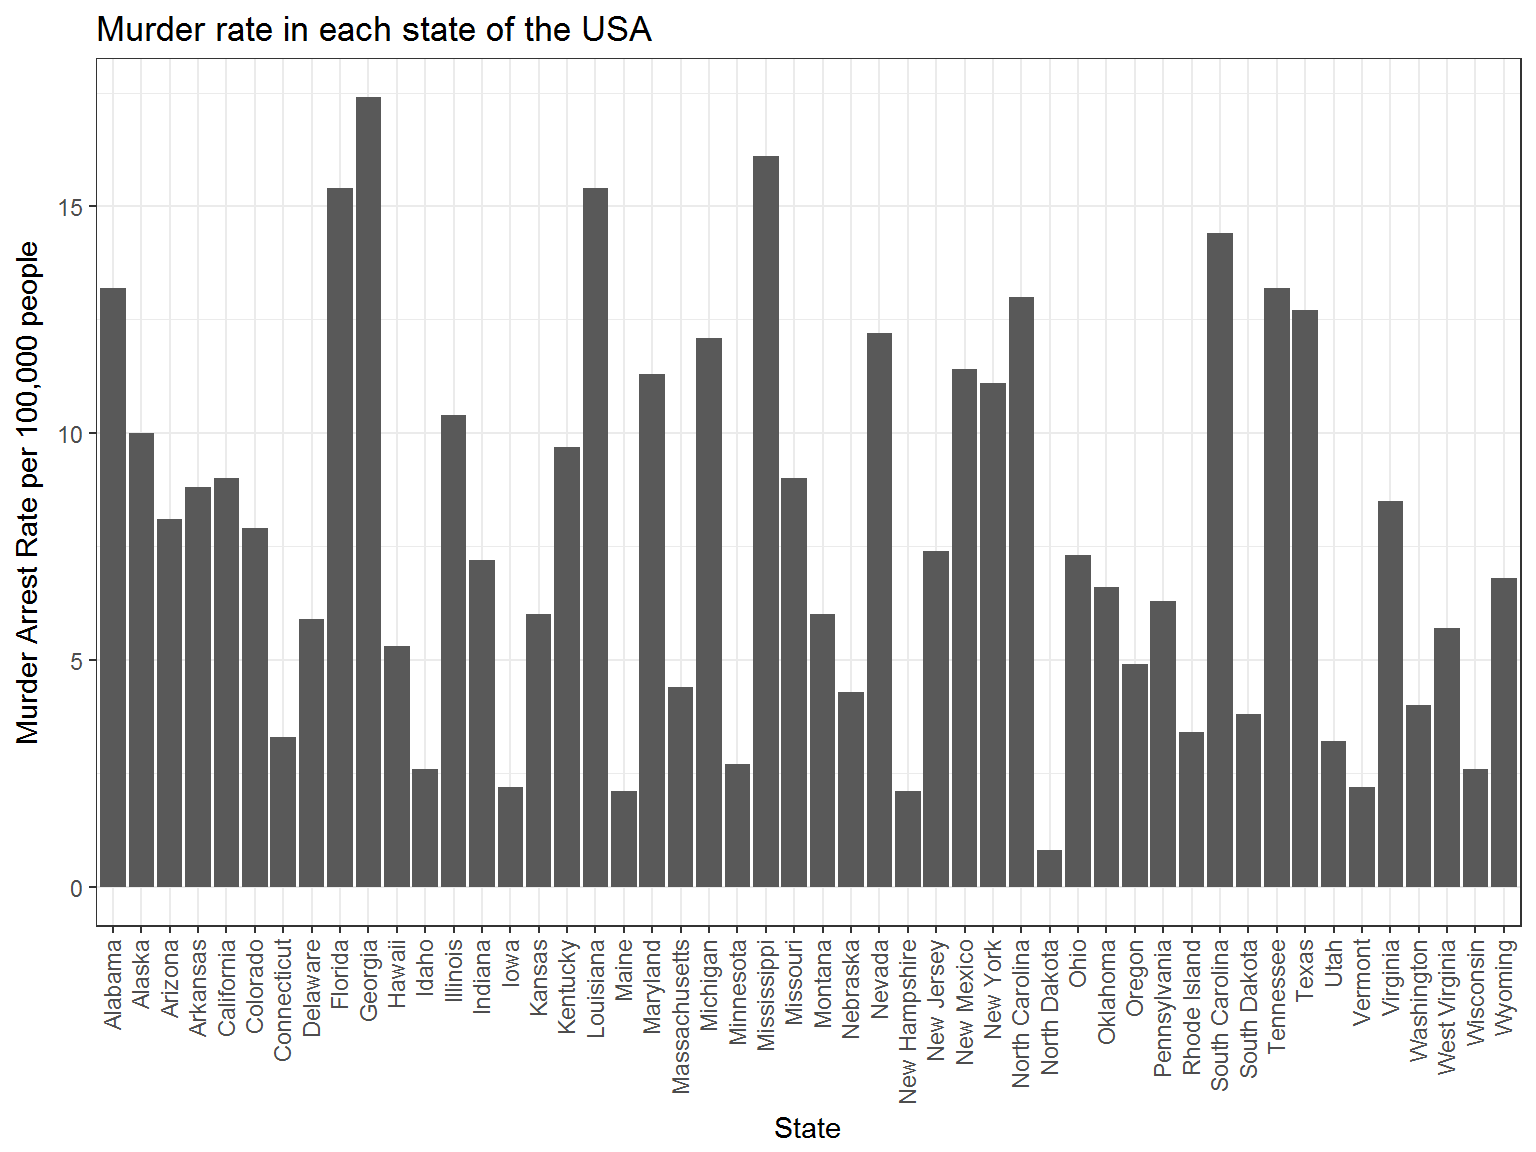
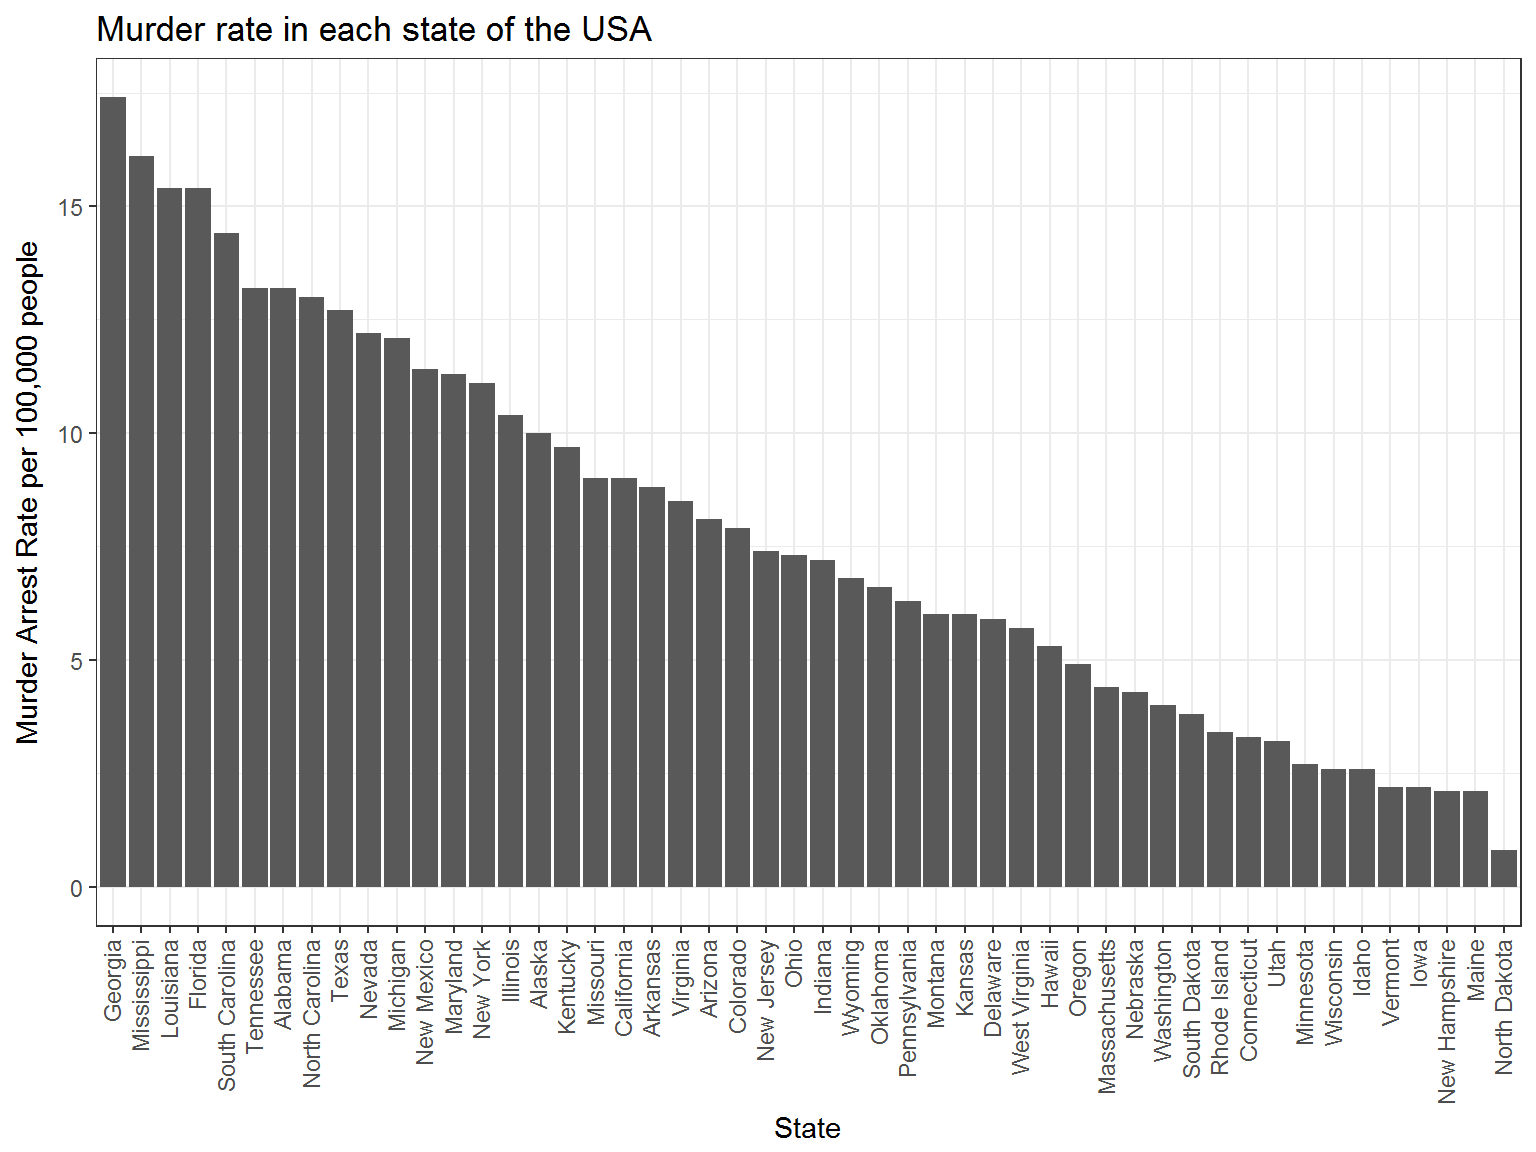
reordered murder rate graph

Changed region(s): [[0.0625, 0.0625, 1.0, 0.75], [0.0625, 0.8125, 1.0, 0.9688]]

diff --git a/content/post/2018-02-01-pca-in-a-tidy-verse-framework.html b/content/post/2018-02-01-pca-in-a-tidy-verse-framework.html
@@ -116,6 +116,8 @@ us_arrests</code></pre>
 ## # ... with 40 more rows</code></pre>
 <p>Let’s take a look at murder arrest rates in each of the stats.</p>
 <pre class="r"><code>us_arrests %&gt;% 
+  mutate(state = factor(state), 
+         state = fct_reorder(state, murder) %&gt;% fct_rev()) %&gt;% 
   ggplot(aes(state, murder)) + 
   geom_bar(stat = &quot;identity&quot;) +
   theme_bw() +
@@ -124,7 +126,7 @@ us_arrests</code></pre>
        x = &quot;State&quot;,
        title = &quot;Murder rate in each state of the USA&quot;)</code></pre>
 <p><img src="/post/2018-02-01-pca-in-a-tidy-verse-framework_files/figure-html/murder-bar-plot-1.png" width="768" style="display: block; margin: auto;" /></p>
-<p>You can see that Georgia has the highest murder rate, followed by Mississippi, Florida, and Louisiana. Let’s try one more.</p>
+<p>You can see that Georgia has the highest murder rate, followed by Mississippi, Louisiana, and Florida Let’s try one more.</p>
 <pre class="r"><code>us_arrests %&gt;% 
   gather(key = crime, value = rate, c(murder, assault, rape)) %&gt;% 
   ggplot(aes(urbanpop, rate, color = crime)) + 
